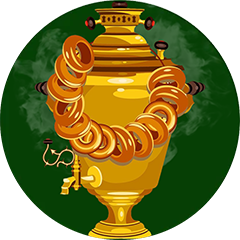
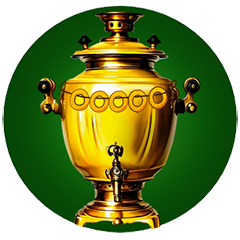
+4 новых флага

diff --git a/content/lang/ru.js b/content/lang/ru.js
@@ -726,6 +726,10 @@
 	flag_Yarilosolnce: 'Ярило',
     flag_Samovar: 'Самовар и баранки',
     flag_Pancakes: 'Масленица 2026',
+    flag_Kitty_LO: 'Миу! (парные флаги)',
+	flag_Kitty_VE: 'Мяу! (парные флаги)',
+	flag_FY_Pair1: 'Крепкая дружба',
+	flag_FY_Pair2: 'Очень крепкая дружба',
 	
 
     // Переводы

diff --git a/content/lang/en.js b/content/lang/en.js
@@ -734,6 +734,10 @@
 	flag_Yarilosolnce: 'Yarilo the Sun',
     flag_Samovar: 'Samovar and Baranki',
     flag_Pancakes: 'Maslenitsa 2026',
+	flag_Kitty_LO: 'Meow! LO (paired flags)',
+	flag_Kitty_VE: 'Meow! VE (paired flags)',
+	flag_FY_Pair1: 'Strong friendship',
+	flag_FY_Pair2: 'Very strong friendship',
 
     // Переводы
     select_faction: 'Select faction',
